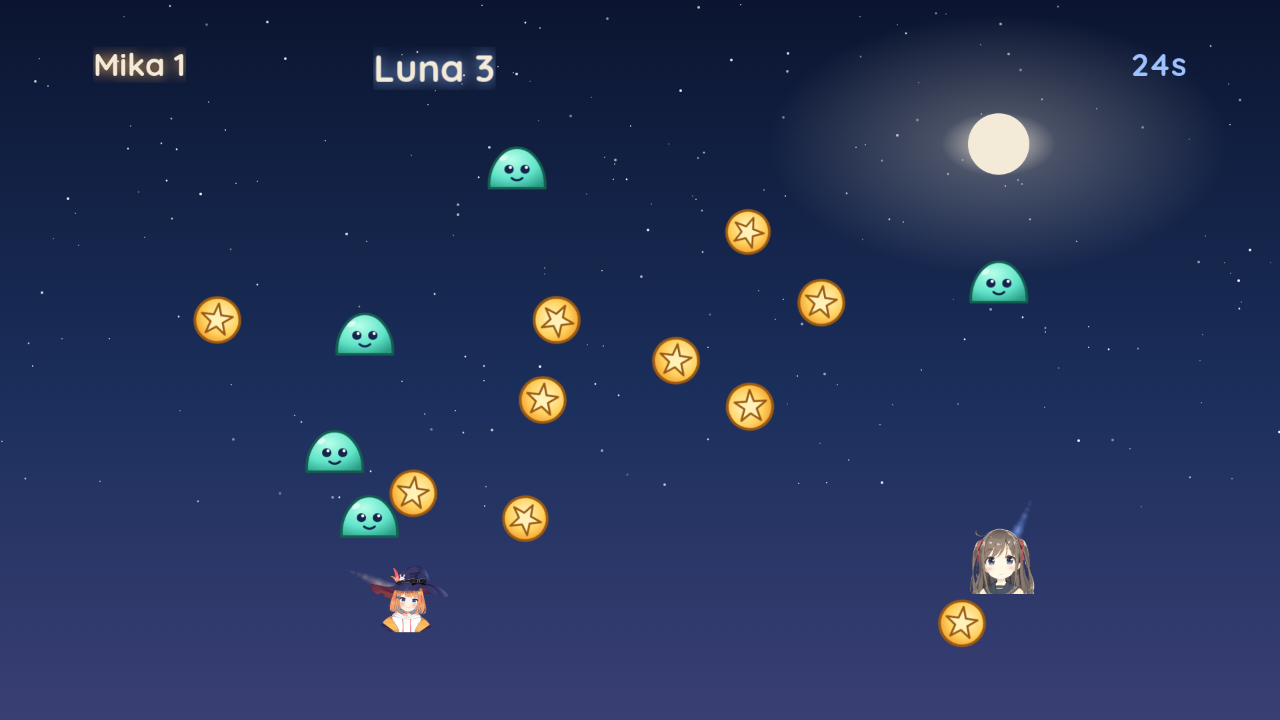
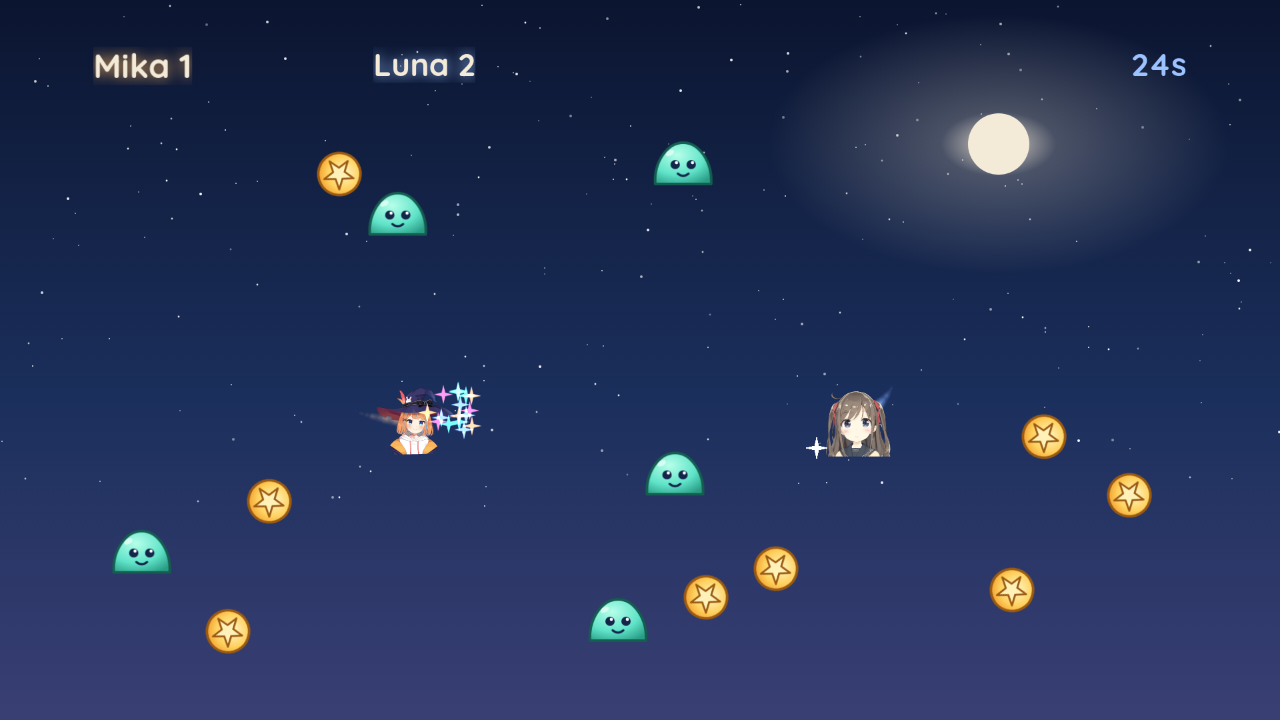
Publish game-67f8 (requested by @FRCFinance)

diff --git a/games/game-67f8/index.html b/games/game-67f8/index.html
@@ -87,6 +87,20 @@ class Play extends Phaser.Scene {
     }).setOrigin(0.5).setShadow(0, 0, "#ff6f9c", 30, true, true).setDepth(12);
     this.tweens.add({ targets: this.banner, alpha: 0, scale: 1.15, delay: 1500, duration: 900 });
 
+    // Display the user's name with animation
+    this.usernameText = this.add.text(W / 2, 100, "Your Name", {
+      fontFamily: FONT, fontSize: "72px", fontStyle: "800", color: "#ffb55e",
+    }).setOrigin(0.5).setDepth(11).setAlpha(0);
+    this.tweens.add({
+      targets: this.usernameText,
+      alpha: 1,
+      y: 150,
+      duration: 2000,
+      ease: 'Cubic.easeInOut',
+      yoyo: true,
+      repeat: -1
+    });
+
     this.roundLeft = SETTINGS.roundSeconds;
     this.updateLabels();
 
